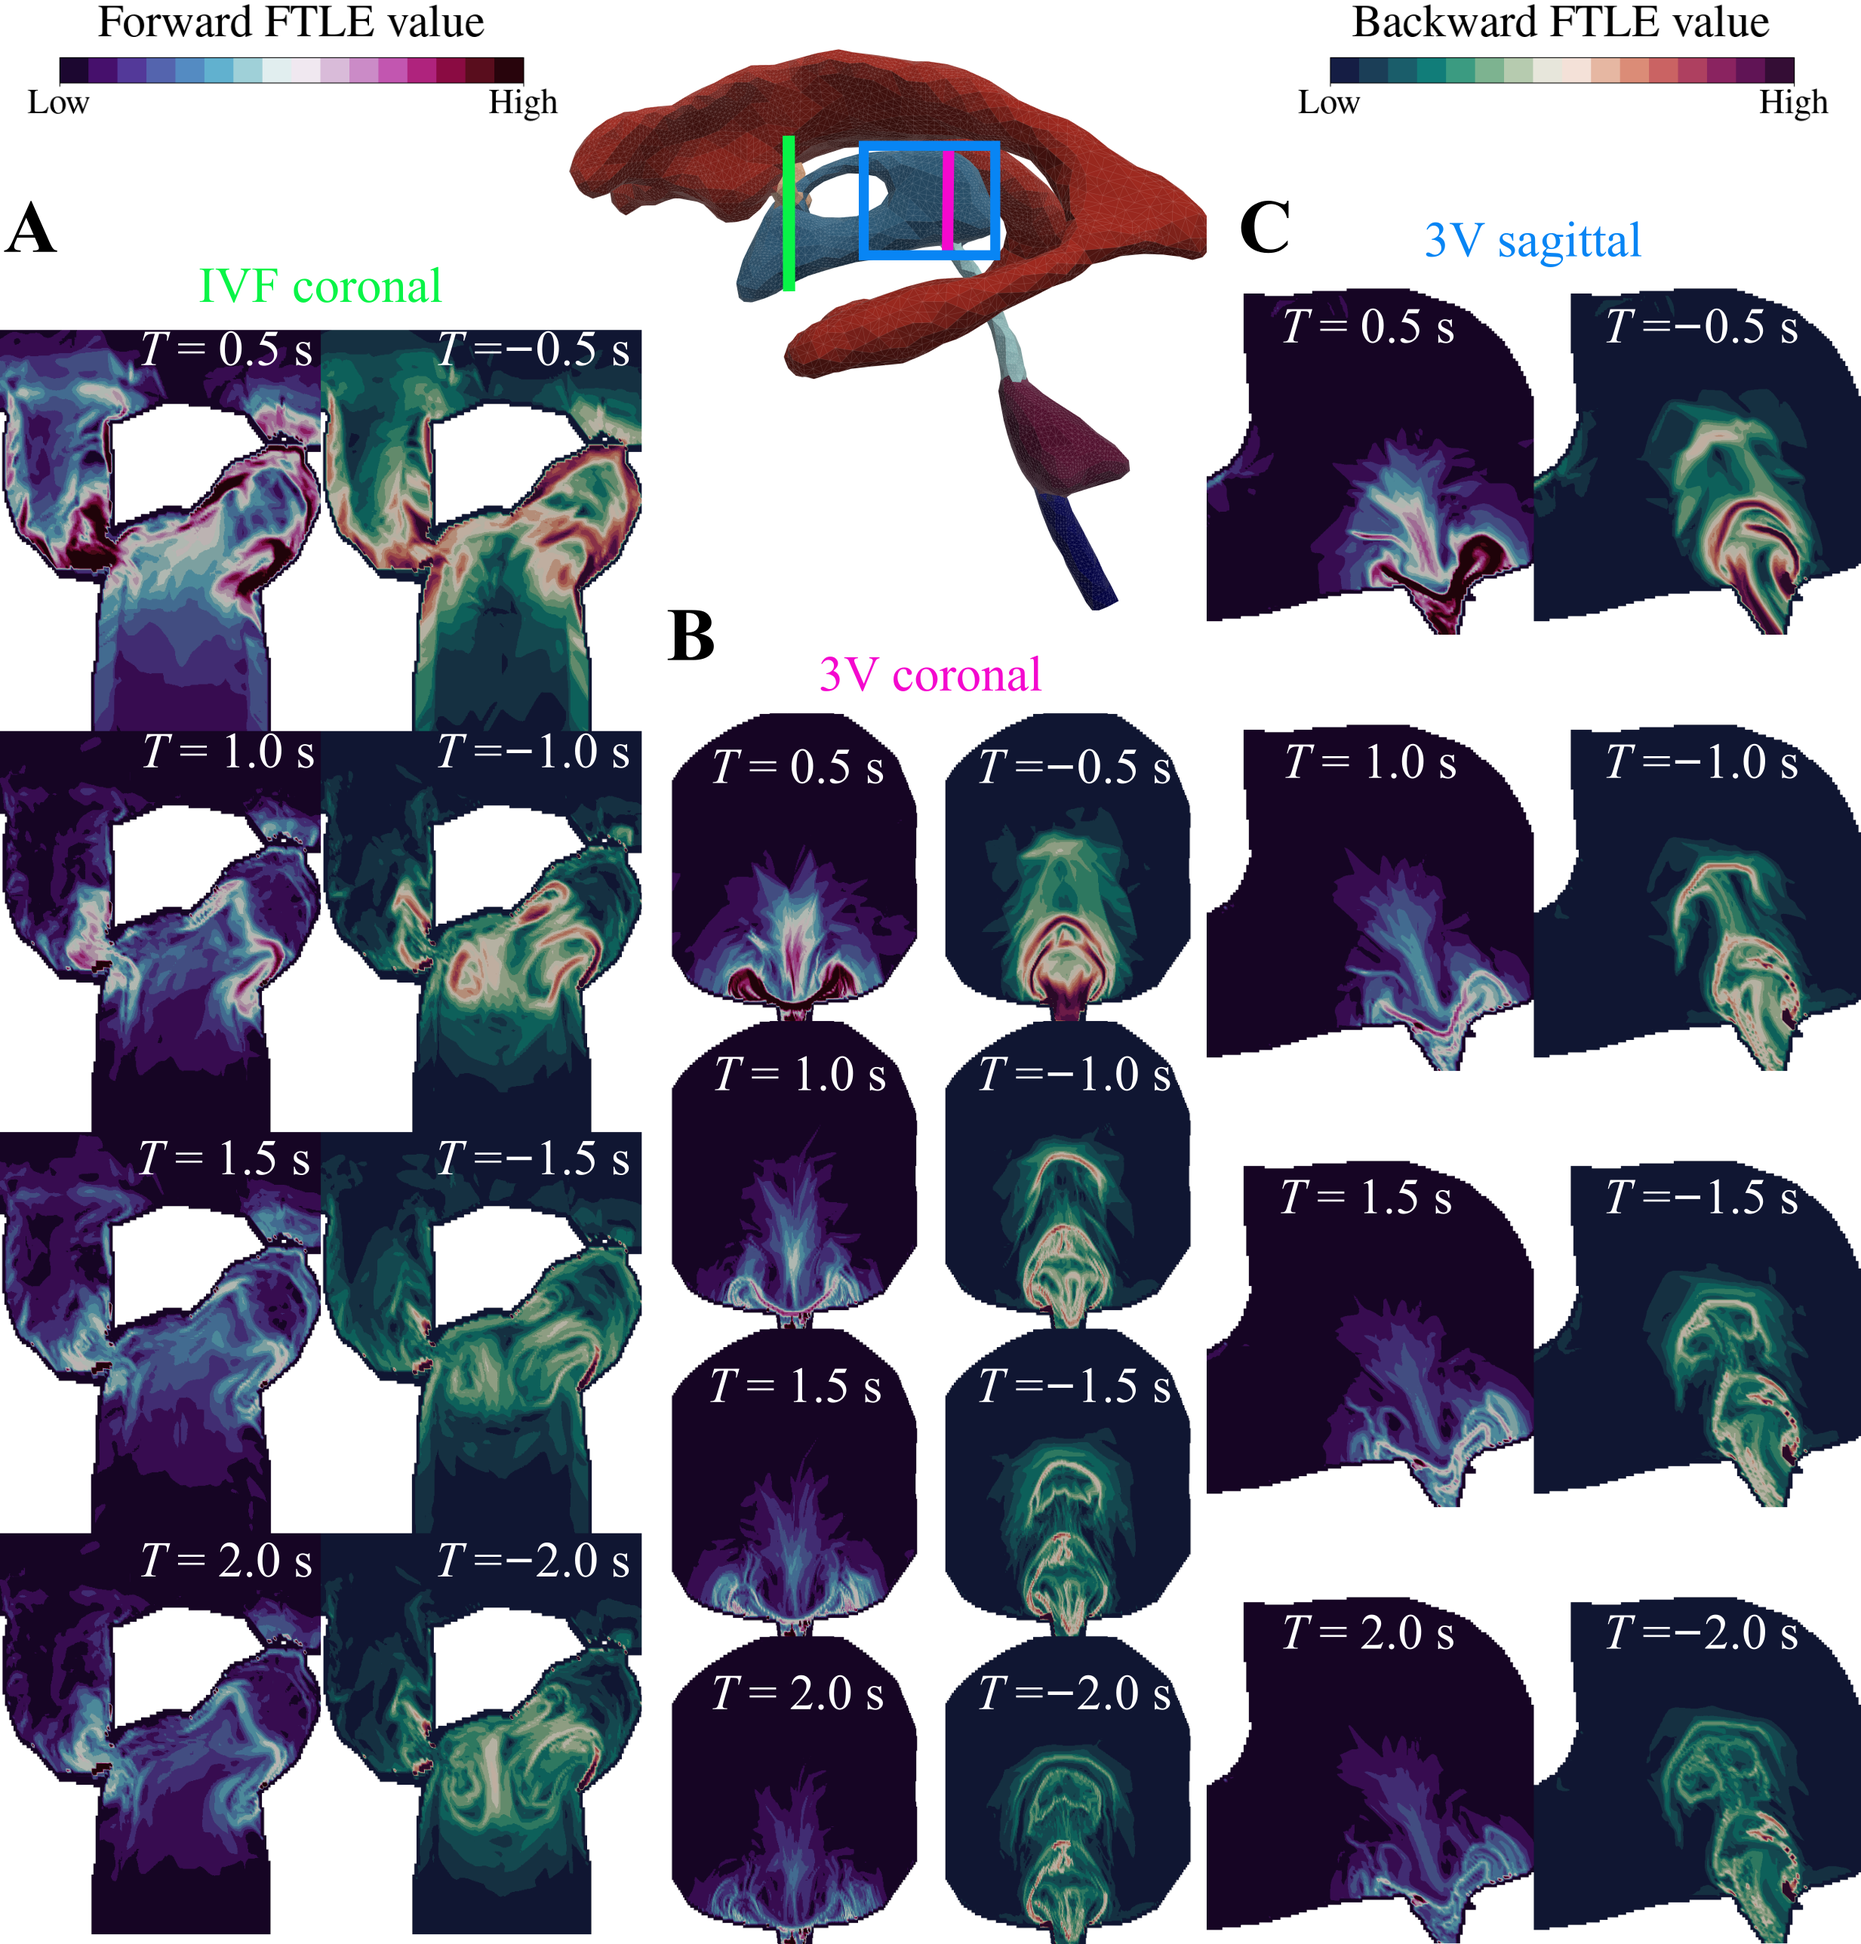
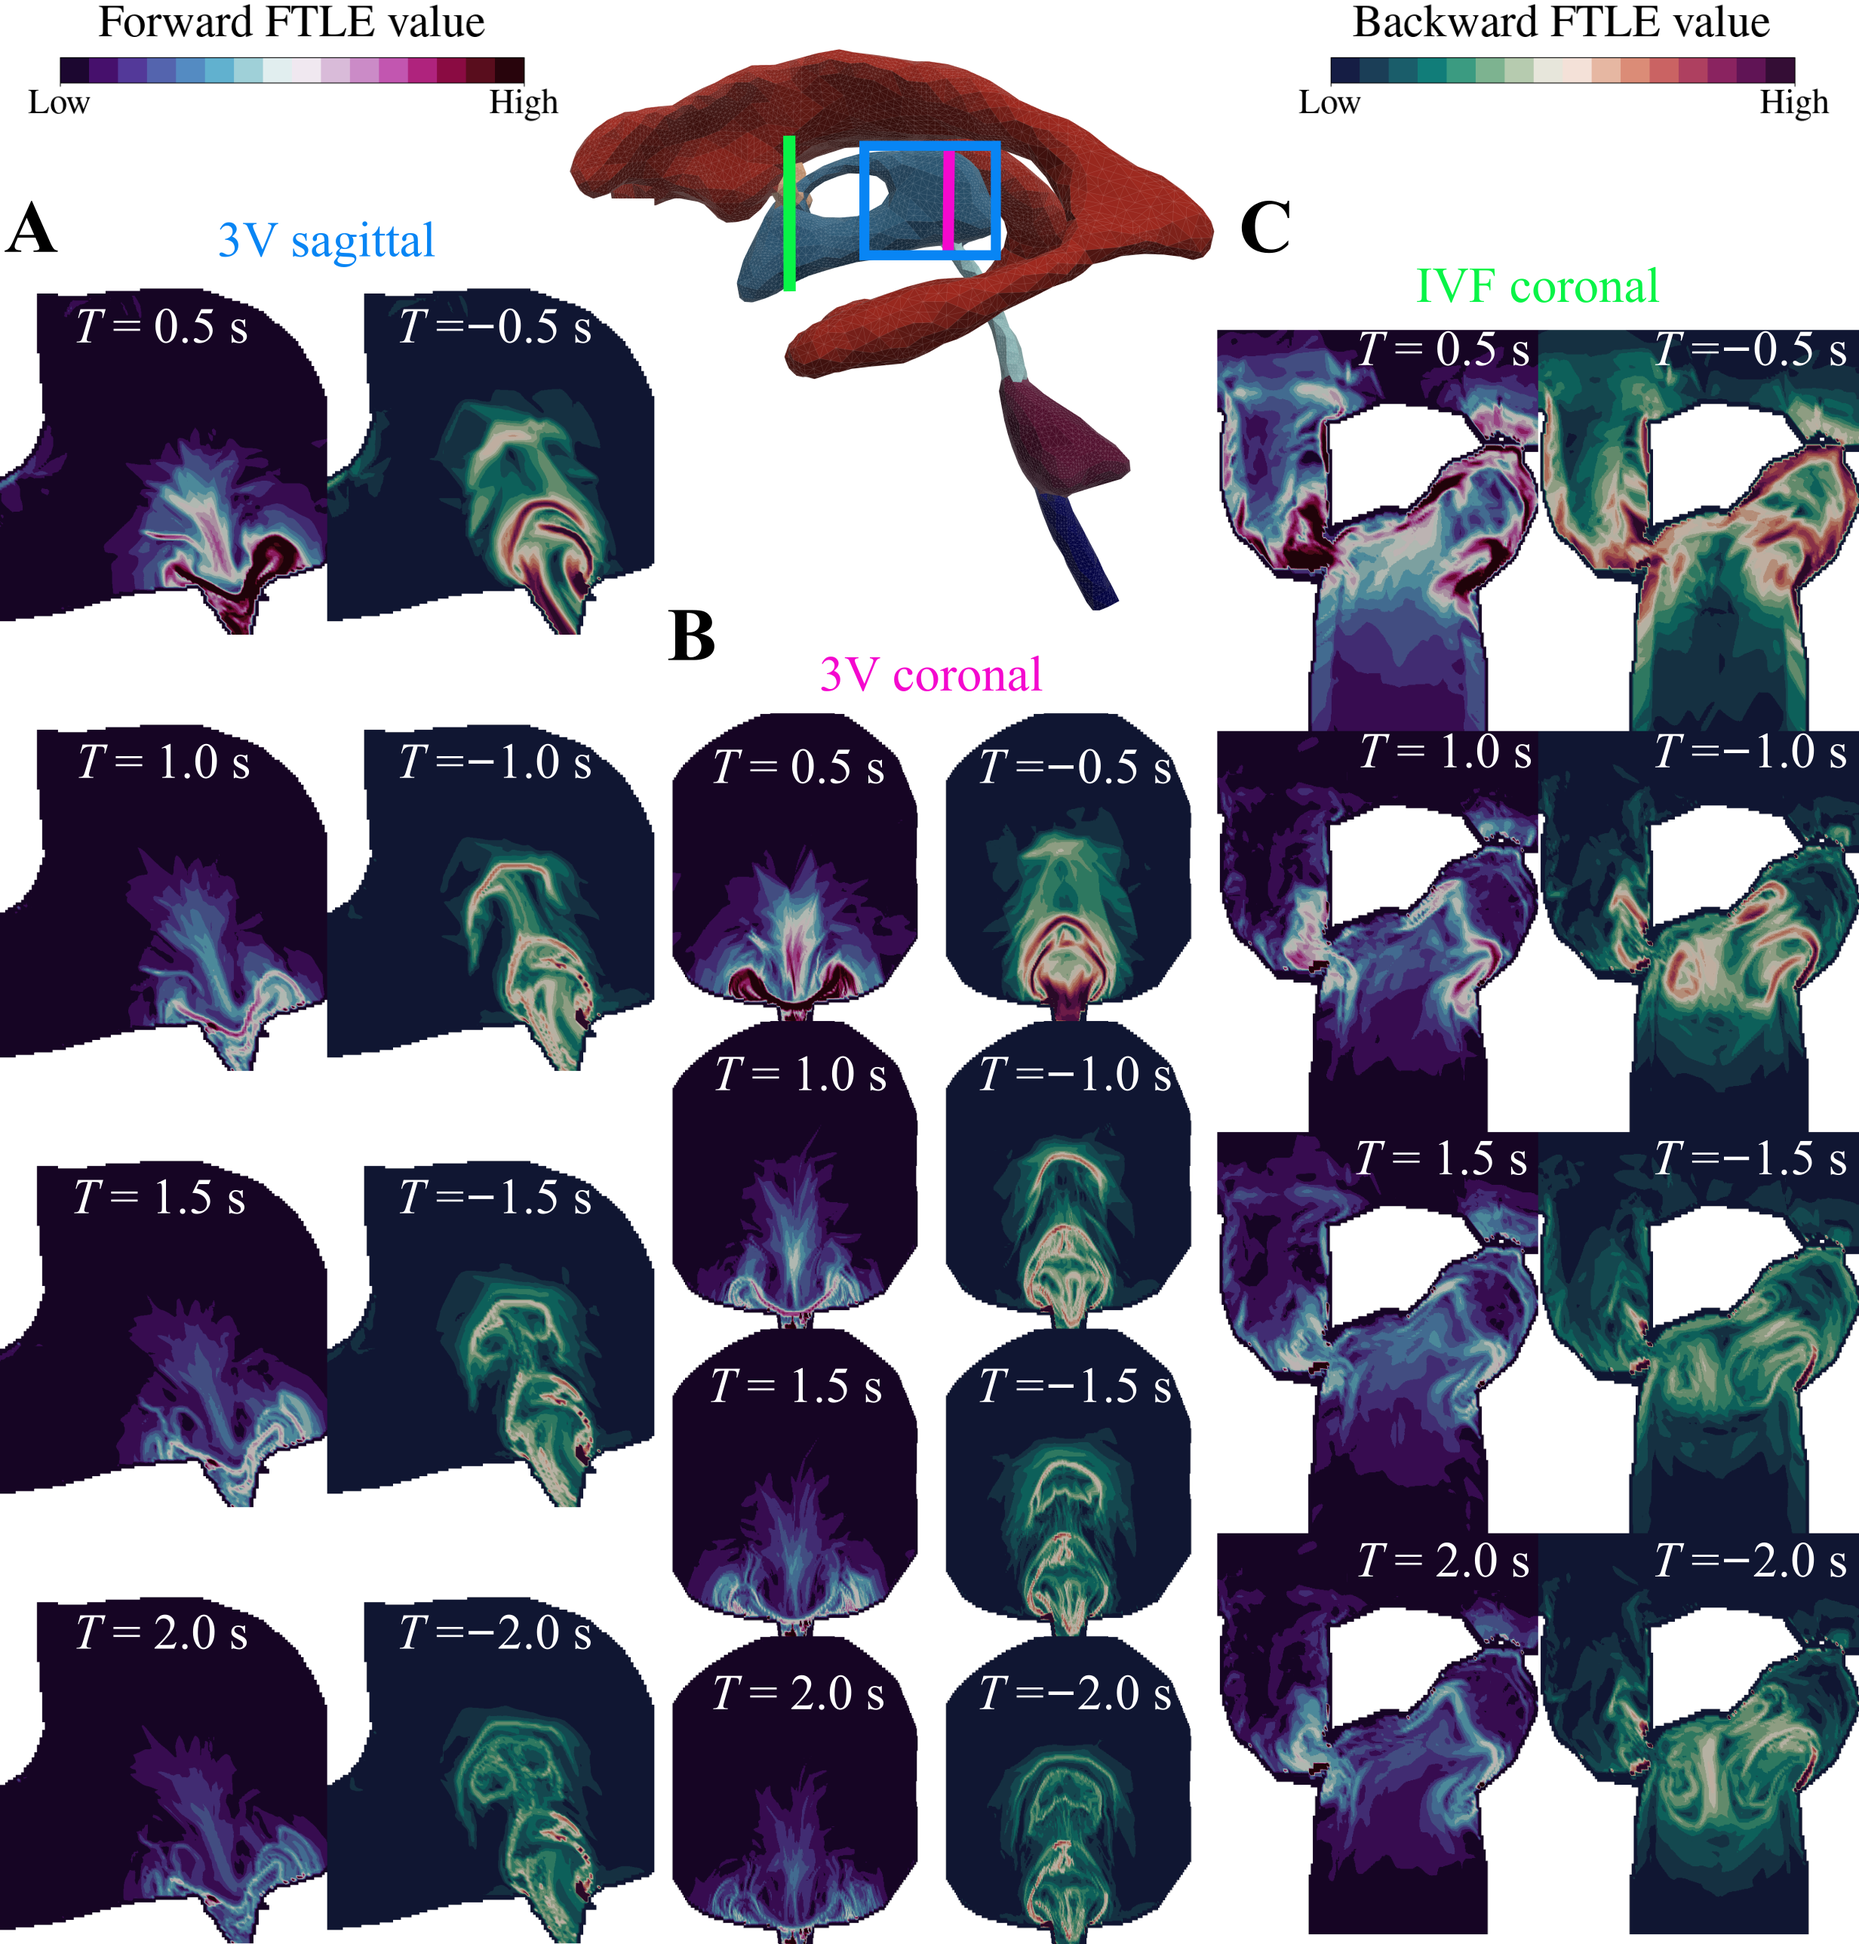
change panel order in FTLE_human1 figure, implement comments from Shawn

diff --git a/paper/main.tex b/paper/main.tex
@@ -23,7 +23,7 @@
     makes understanding of unsteady transport challenging.
     Here, we analyze brain ventricular CSF flow both in a Eulerian
     sense and from the Lagrangian perspective -- a time-integrated view of the flow.
-    With geometries generated from medical imaging data, we model CSF flow
+    With geometries generated from imaging data, we model CSF flow
     in adult human and embroynic zebrafish brain ventricles. 
     In the human brain we model flow governed by cardiovascular pulsations,
     CSF secretion and motile cilia. 
@@ -42,7 +42,8 @@
     solving the Stokes equations is adequate to compute integrated flow
     variables like stroke volumes, but that the Stokes approximation fails 
     to resolve intricate features of flow and advective transport that
-    are present in the solution to the Navier-Stokes equations.
+    are present in the solution to the Navier-Stokes equations,
+    features that could be important to elucidating transport.
 \end{abstract}
 
 \section{Introduction}
@@ -109,10 +110,10 @@ to a lesser extent been studied in humans~\cite{worthington1963ependymal,
 Yoshida2022EffectVentricles, Siyahhan2014FlowVentricles},
 demonstrating local effects of cilia on CSF flow patterns.
 
-Flow patterns such as separatrices and vortices are examples of material structures
-in fluid flows, often referred to as Lagrangian coherent
+Flow patterns such as separatrices and vortices can be elucidated by special
+material structures known as Lagrangian coherent
 structures (LCS). The LCS constitute transport barriers in
-fluid advection, and are responsible for stretching and 
+fluid advection, and organize stretching and 
 folding in the mixing of passive tracers~\cite{haller2015lagrangian,
 haller2000lagrangian}. LCS can be characterized by computing
 finite-time Lyapunov exponent (FTLE) fields through integration of fluid
@@ -158,7 +159,7 @@ LCS and thus the advective transport within the brain ventricles?
 
 % I4: How do we address the problem and what do we find out?
 In this work, we characterize LCS in brain ventricular CSF flow
-using two computational models generated with medical imaging data.
+using two computational models generated with imaging data.
 One geometry represents the brain ventricles of an adult human. The other
 geometry represents the brain ventricles of embryonic zebrafish, an animal whose
 ventricular system shares many similarities with the human brain ventricles.
@@ -179,7 +180,7 @@ Lagrangian analysis in furthering our understanding of CSF flow.
 \section{Methods}
 \subsection{Image-based computational meshes of ventricular geometries}
 To study brain ventricular CSF flow and characterize coherent flow structures,
-we consider two brain ventricular geometries generated with medical imaging data
+we consider two brain ventricular geometries generated with imaging data
 (\Cref{fig:model_sketch}). One is the brain ventricular system of an adult human,
 which includes of the lateral, third and fourth ventricles (\Cref{fig:model_sketch}A).
 The interventricular foramina connect the lateral ventricles to the third ventricle,
@@ -310,9 +311,12 @@ and $\delta$ is the Kronecker delta.
 
 The Lamé parameters $\eta$ and $\lambda$ are derived from
 Poisson's ratio $\nu$ and Young's modulus $E$ of brain tissue.
-In reality, the brain ventricles are filled with CSF, and only the
-ventricular walls are brain tissue. Since the purpose of this tissue model
-is to generate a smooth displacement field for the ventricular wall displacements,
+In~\Cref{eq:strong_linear_elasticity_1}, the domain $\DD$
+corresponds to the fluid domain, so that a deformation field
+can be computed over this region and used to smoothly
+adjust the volumetric fluid mesh without large distortion
+of mesh elements near the boundary. 
+Since this region is not tissue per se,
 we expect the precise choice of $\nu$ and $E$ not to
 influence the general trends of the results, but rather
 only the required magnitude of the applied displacements $\bm{g}(\xx, t)$.
@@ -668,7 +672,7 @@ Herlyng~\emph{et al.}~\cite{Herlyng2025AdvectionDiffusion} for more details.
 \subsection{Finite-time Lyapunov exponent fields and Lagrangian coherent structures}
 We computed finite-time Lyapunov exponent (FTLE) fields to
 identify Lagrangian coherent structures (LCS).
-LCS are transport barriers partition regions of distinct flow behavior
+LCS are transport barriers that partition regions of distinct flow behavior
 and act as organizing structures of fluid advection.
 LCS can be identified as ridges in the FTLE field~\cite{shadden2005definition}. 
 
@@ -1114,22 +1118,22 @@ been observed in the third ventricle at the cerebral aqueduct
 entrance~\cite{Kurtcuoglu2007ComputationalSylvius}.
 We therefore investigate structures in the Finite-time Lyapunov exponent
 (FTLE) fields near this entrance and in the interventricular foramina.
-Both the aqueduct and the interventricular foramina
-are the narrowest sections of the ventricular system, where flow
-is strong as a result of the principle of mass conservation.
+The cerebral aqueduct and the interventricular foramina
+are among the narrowest sections of the ventricular system, where flow
+gradients increase as a result of the principle of mass conservation.
 
 FTLE fields computed using the solution to the Navier-Stokes
 equations (\Cref{eq:navier_stokes_mom_eq}) with varying integration time $T$
 show the emergence of a jet and the generation of a vortex ring
-at the cephalic entrance to the aqueduct (\Cref{fig:FTLE_human1}).
-The vortex ring is identified by ridges in the backward-in-time
+at the cephalic entrance to the aqueduct (\Cref{fig:FTLE_human1}A, B).
+The leading edge of the vortex ring is identified by ridges in the backward-in-time
 FTLE fields, ridges that develop with increasing $T$.
 In the forward-in-time FTLE field, there is a well-defined ridge
-for $T=1.0$ s (one cardiac cycle) delineating the third ventricle
-and the aqueduct (\Cref{fig:FTLE_human1}).
+for $T=1.0$ s (one cardiac cycle) across the entrance to
+and the cerebral aqueduct (\Cref{fig:FTLE_human1}A, B).
 
 There are also clearly visible ridges that define lobe-like structures
-in the FTLE fields in the interventricular foramina (IVF).
+in the FTLE fields in the interventricular foramina (IVF) (\Cref{fig:FTLE_human1}C).
 In the backward FTLE fields there develops a vortex ring that is ejected
 caudally. In the bulk of the lateral and third ventricles,
 there are no clear structures in the FTLE fields.
@@ -1145,8 +1149,8 @@ smeared out with diminishing FTLE values.
     were computed in two box regions: (i) the posterior end of the third
     ventricle, including the superior most part of the aqueduct, and
     (ii) the anterior part of the lateral ventricles, including
-    the interventricular foramina. Coronal slices in the IVF (\textbf{A})
-    and the 3V (\textbf{B}) and sagittal slices in the 3V (\textbf{C})
+    the interventricular foramina. Sagittal slices in the 3V (\textbf{A})
+    and coronal slices in the 3V (\textbf{B}) and the IVF (\textbf{C})
     of these FTLE fields are displayed. Within each slice-specific column,
     the left and right columns display forward- and backward-time FTLE
     fields, respectively.    
@@ -1158,15 +1162,18 @@ smeared out with diminishing FTLE values.
 
 For an integration time of one cardiac cycle ($T=1.0$ s), FTLE fields computed
 with varying initial release times $t_0$ show how the FTLE fields vary
-in time (\Cref{fig:FTLE_human2}). In the interventricular foramina,
-the attracting structures reverse their orientation over one cardiac cycle (1.0 second).
-The vortex formed by the jet near the aqueduct entrance detaches from the entrance 
-during early systole. A new vortex is forming during the transition to diastole,
+in time (\Cref{fig:FTLE_human2}). In the IVF,
+the attracting structures reverse their orientation over the course of
+one cardiac cycle (one second, \Cref{fig:FTLE_human2}A).
+In the 3V, the vortex formed by the
+jet near the aqueduct entrance detaches from the entrance 
+during early systole (\Cref{fig:FTLE_human2}B).
+A new vortex is forming during the transition to diastole,
 and a new vortex clearly forms during the transition to the next cardiac cycle.
 \begin{figure}
     \centering
     \includegraphics[width=\textwidth]{graphics/FTLE_human2.png}
-    \caption{Sagittal slices of FTLE fields in the human brain ventricles 
+    \caption{Coronal slices of FTLE fields in the human brain ventricles 
     computed with integration times $T = \pm 1.0$ s
     (one cardiac cycle). The FTLE fields are computed with varying
     initial release times $t_0$.
@@ -1184,8 +1191,8 @@ When computing FTLE fields with the unsteady Stokes equations (\Cref{eq:unsteady
 the jet structure in the third ventricle vanishes (\Cref{fig:FTLE_human3}A).
 This differs greatly from the structure
 observed in the Navier-Stokes solution (\Cref{fig:FTLE_human3}B).
-In the backward FTLE fields, the lobes that form
-and over time are elevated from the aqueduct entrance in the Navier-Stokes solution are not 
+In the backward FTLE fields, the lobes that form and over time
+propagate away from the aqueduct entrance in the Navier-Stokes solution are not 
 present in the Stokes solution's FTLE fields. This indicates a stronger stirring effect
 in the Navier-Stokes solution. Similarly, the repelling structures are more
 extensive in the Navier-Stokes FTLE fields.
@@ -1270,7 +1277,7 @@ strong streching and folding of the CSF,
 contributing to mixing and stirring~\cite{shadden2006lagrangian, shadden2007transport}. 
 The vortex ring also traps fluid, thus the presence
 of the ring suggests some CSF may occupy the third ventricle for
-relatively long times.
+relatively longer times.
 
 For $T=1.0$ s (one cardiac cycle) we identified a repelling structure 
 in the third ventricle. This repelling structure separates the third
@@ -1280,7 +1287,7 @@ expelled through the aqueduct. Meanwhile, fluid inside the third ventricle
 can stay there for a longer time without exiting through the aqueduct.
 In the interventricular foramina, there are also
 clear ridges in the FTLE field with $T=1.0$ s (\Cref{fig:FTLE_human1}),
-indicating regions of high stretching and delineation of regions
+indicating regions of high stretching that partition flow
 with different advective transport times. The lobes that develop
 have a structure that could trap fluid close to the ventricular walls.
 
@@ -1302,7 +1309,7 @@ in human ventricles at Reynolds numbers in the lower hundreds,
 accounting for intertial effects through
 solving the full Navier-Stokes equations is important when investigating
 advective transport by the CSF flow and analyzing local flow features.
-We draw this conclusion based on the vast differences in the structures
+We draw this conclusion based on the significant differences in the structures
 present in the FTLE fields (\Cref{fig:FTLE_human3}) and the
 differences observed in local flow features (\Cref{fig:3d_flow_results})
 between the Navier-Stokes and Stokes solutions. The lobe structures and
@@ -1347,7 +1354,7 @@ on cilia parameters in the human brain ventricles.
 This contrasts the case for the embryonic zebrafish brain, where the model parameters
 are more comprehensively resolved, and previous work strongly suggests cilia are
 the main drivers of flow~\cite{Olstad2019CiliaryDevelopment, Herlyng2025AdvectionDiffusion}.
-The great effect of cilia in zebrafish ventricles is a direct result of the smaller
+The greater effect of cilia in zebrafish ventricles is a direct result of the smaller
 length scale of the ventricular system of embryonic zebrafish
 as compared to adult humans. Cilia may play a similarly important
 role in smaller confined spaces of the human ventricular system,
@@ -1498,7 +1505,8 @@ in flow field predictions has little importance when computing integrated flow q
 but fluid inertial effects are crucial for capturing Lagrangian coherent structures and thus crucial when
 modeling transport and mixing in the (human) brain ventricles. Through comparison with
 Eulerian-based flow analysis of CSF flow in embryonic zebrafish brain ventricles, our results further
-demonstrate how FTLE fields can be used to characterize prominent flow structures in brain ventricles.
+demonstrate how FTLE fields can be used to characterize prominent flow structures in brain ventricles
+and partitioning of the flow.
 An interesting path for future work would be to assess how these structures change
 with either pathological flow regimes or changes in the ventricular geometry.
 Although there are still several unresolved model parameters and assumptions,
